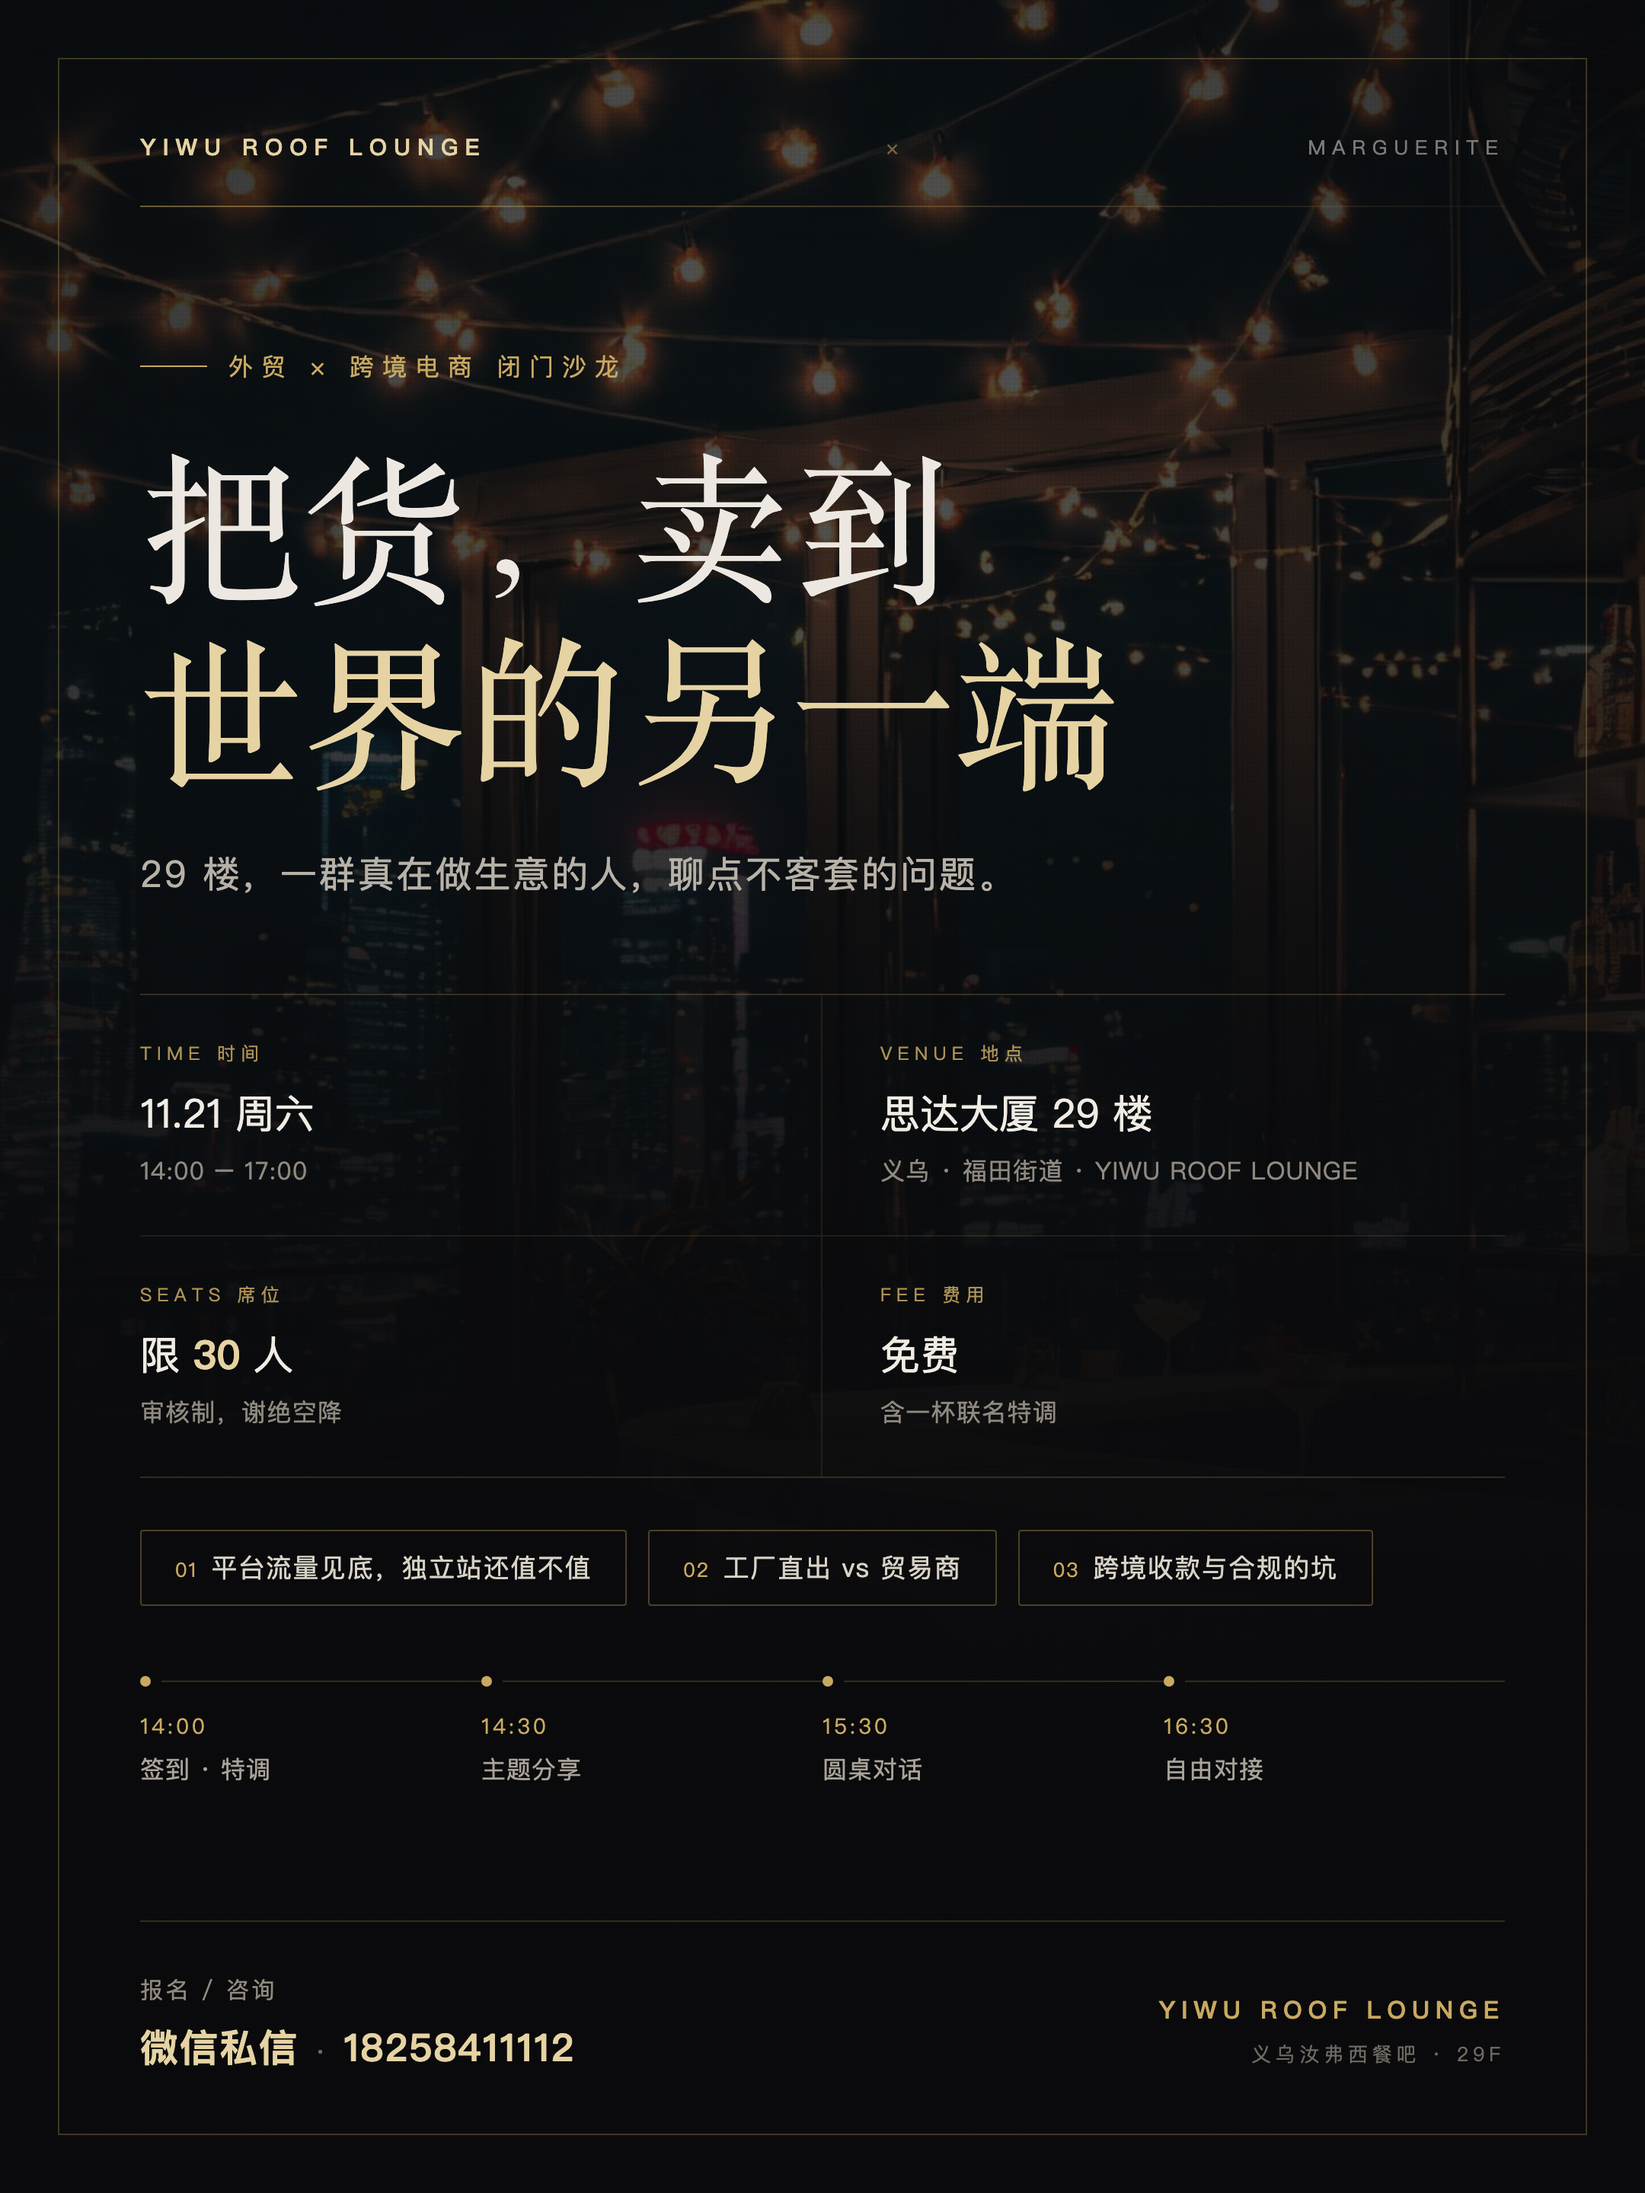
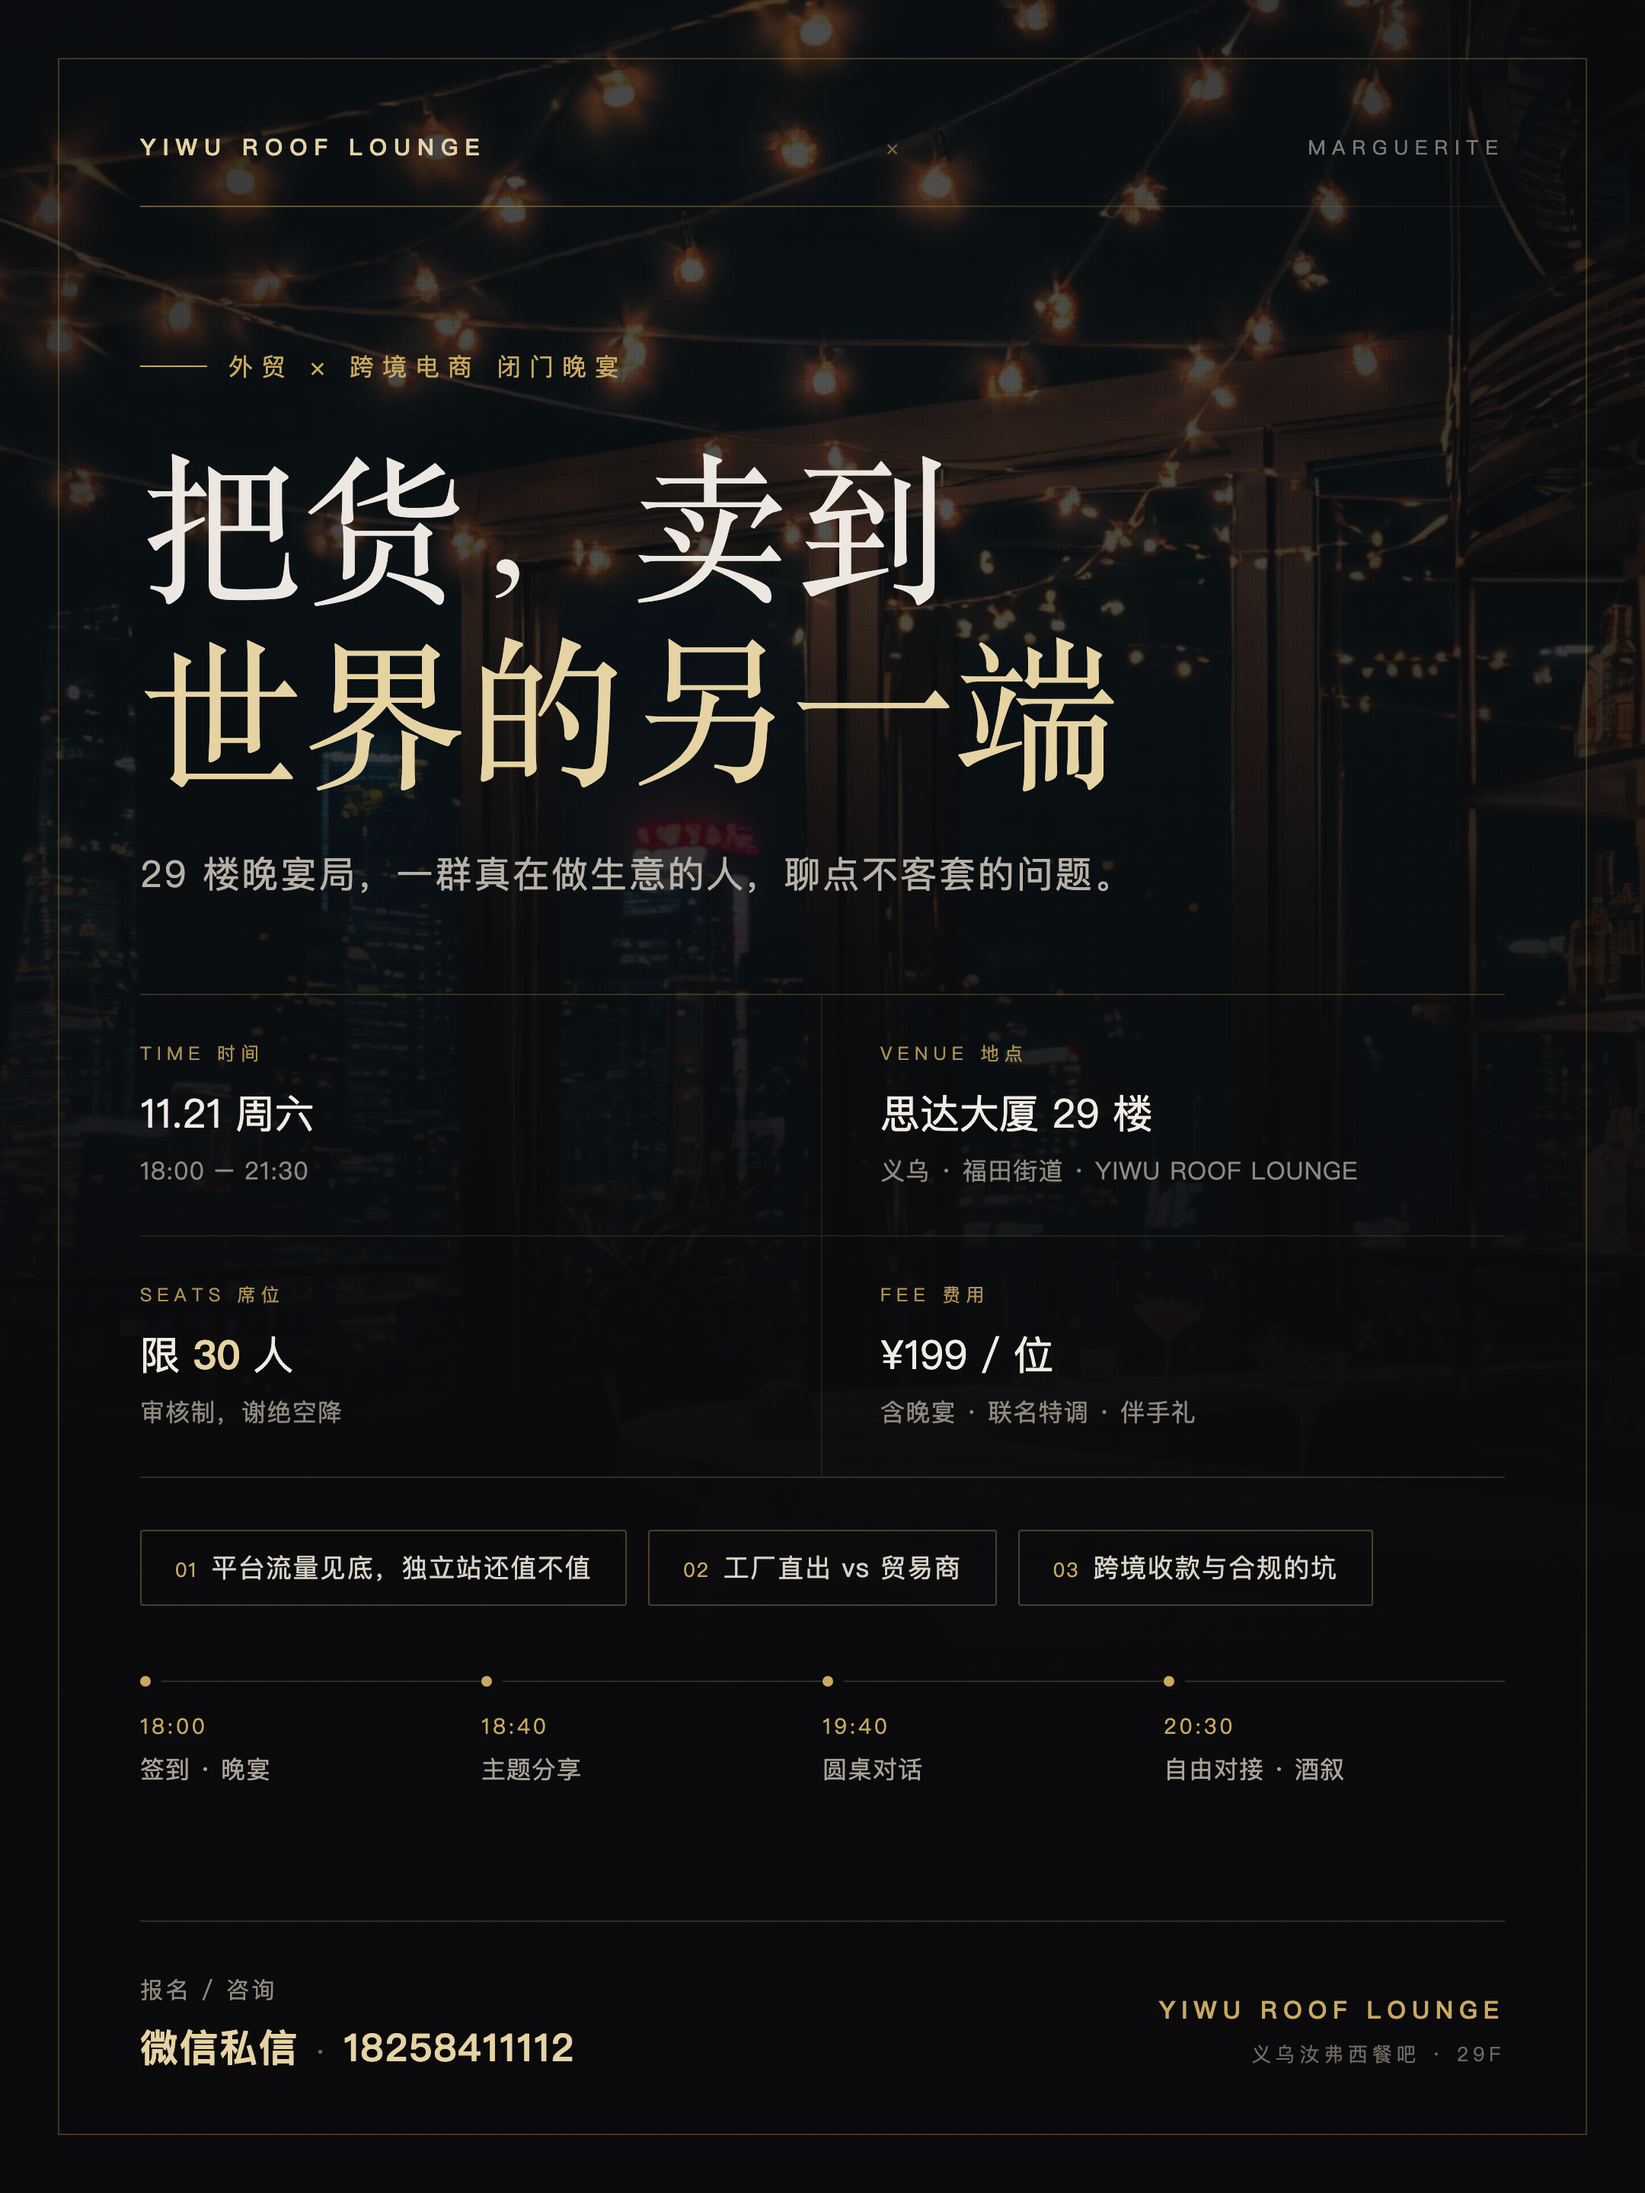
Salon: switch to paid dinner at 199 CNY, evening schedule

diff --git a/salon-poster.html b/salon-poster.html
@@ -117,15 +117,15 @@
     <div class="rule"></div>
 
     <div class="head">
-      <div class="kicker">外贸 × 跨境电商 闭门沙龙</div>
+      <div class="kicker">外贸 × 跨境电商 闭门晚宴</div>
       <h1>把货，卖到<br><em>世界的另一端</em></h1>
-      <div class="sub">29 楼，一群真在做生意的人，聊点不客套的问题。</div>
+      <div class="sub">29 楼晚宴局，一群真在做生意的人，聊点不客套的问题。</div>
     </div>
 
     <div class="info">
       <div class="cell">
         <div class="k">TIME 时间</div>
-        <div class="v">11.21 周六<small>14:00 – 17:00</small></div>
+        <div class="v">11.21 周六<small>18:00 – 21:30</small></div>
       </div>
       <div class="cell">
         <div class="k">VENUE 地点</div>
@@ -137,7 +137,7 @@
       </div>
       <div class="cell">
         <div class="k">FEE 费用</div>
-        <div class="v">免费<small>含一杯联名特调</small></div>
+        <div class="v">¥199 / 位<small>含晚宴 · 联名特调 · 伴手礼</small></div>
       </div>
     </div>
 
@@ -148,10 +148,10 @@
     </div>
 
     <div class="agenda">
-      <div class="step"><div class="dot"></div><div class="ln"></div><div class="t">14:00</div><div class="d">签到 · 特调</div></div>
-      <div class="step"><div class="dot"></div><div class="ln"></div><div class="t">14:30</div><div class="d">主题分享</div></div>
-      <div class="step"><div class="dot"></div><div class="ln"></div><div class="t">15:30</div><div class="d">圆桌对话</div></div>
-      <div class="step"><div class="dot"></div><div class="ln"></div><div class="t">16:30</div><div class="d">自由对接</div></div>
+      <div class="step"><div class="dot"></div><div class="ln"></div><div class="t">18:00</div><div class="d">签到 · 晚宴</div></div>
+      <div class="step"><div class="dot"></div><div class="ln"></div><div class="t">18:40</div><div class="d">主题分享</div></div>
+      <div class="step"><div class="dot"></div><div class="ln"></div><div class="t">19:40</div><div class="d">圆桌对话</div></div>
+      <div class="step"><div class="dot"></div><div class="ln"></div><div class="t">20:30</div><div class="d">自由对接 · 酒叙</div></div>
     </div>
 
     <div class="foot">
